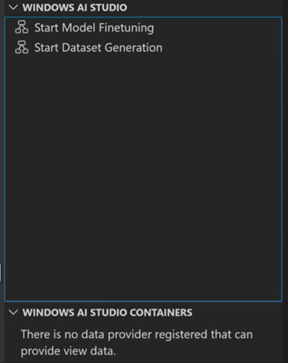
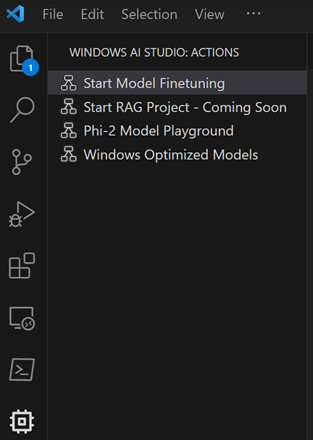
added more details

Changed region(s): [[0.0, 0.0, 1.0, 1.0]]

diff --git a/README.md b/README.md
@@ -10,13 +10,16 @@ In this section you will learn how to quickly start with Windows AI Studio
 
 ### Install Windows AI Studio Preview
 
-Windows AI Studio is shipped as [Visual Studio Code Extension](https://code.visualstudio.com/docs/setup/additional-components#_vs-code-extensions), so you need to install [VS Code](https://code.visualstudio.com/docs/setup/windows) first and dowload the Windows AI Studio from the [VS Marketplace](https://marketplace.visualstudio.com/VSCode).
+Windows AI Studio is shipped as [Visual Studio Code Extension](https://code.visualstudio.com/docs/setup/additional-components#_vs-code-extensions), so you need to install [VS Code](https://code.visualstudio.com/docs/setup/windows) first and download the Windows AI Studio from the [VS Marketplace](https://marketplace.visualstudio.com/VSCode).
 
 ### Available Actions
 
-Upon lanching Windows AI Studio, there are several actions you can do:
+Upon launching Windows AI Studio, there are several actions you can do:
 - Start Model Finetuning
-- Start Dataset Generation
+- Start RAG Project
+- Phi-2 Model Playground
+- Windows Optimized Models
+
 
 ![Actions](/Images/studio_Actions.png)
 
@@ -26,7 +29,7 @@ To initiate the local finetuning session using QLoRA, select a model you want to
 
 > ***Note*** You do not need Azure Account to download the models
 
-Once, a model is selected it is time to configure the project. You will be promp to download the project template. But first, you can set configuration settings via UI. We use [Olive](https://microsoft.github.io/Olive/overview/olive.html) to run QLoRA fine-tuning on a PyTorch model from our catalog. All of the setting are preset with the default values to optimize to runthe finetuning process locally with optimized use of memory.
+Once, a model is selected it is time to configure the project. You will be prompt to download the project template. But first, you can set configuration settings via UI. We use [Olive](https://microsoft.github.io/Olive/overview/olive.html) to run QLoRA fine-tuning on a PyTorch model from our catalog. All of the setting are preset with the default values to optimize to run the finetuning process locally with optimized use of memory.
 
 ![Configure the model](/Images/fineTune.jpg)
 
@@ -44,13 +47,13 @@ Once, a model is selected it is time to configure the project. You will be promp
 | Per device train batch size   | Int       | 1             | The batch size per GPU for training |
 | Per device eval batch size    | Int       | 1             | The batch size per GPU for evaluation |
 | Gradient accumulation steps   | Int       | 4             | Number of updates steps to accumulate the gradients for, before performing a backward/update pass |
-| Enable Gradient checkpointing | Bool      | yes           | Use gradient checkpointing. Recommended to save the memory |
+| Enable Gradient check pointing | Bool      | yes           | Use gradient check pointing. Recommended to save the memory |
 | Learning rate                 | Float     | 0.00002       |The initial learning rate for AdamW |
 | Max steps                     |           |               |             |
 
 
 
-After all the parameters are set, click **Generate Progect**.
+After all the parameters are set, click **Generate Project**.
 That will:
  - Initiate the model download
  - Install all prerequisites and dependencies
@@ -59,9 +62,17 @@ That will:
 When the model is downloaded, you can launch you project from the Windows AI Studio.
 
 
-### Start Dataset Generation
+### Start RAG Project
 
 **Coming soon!**
+
+### Phi-2 Model Playground
+
+**Coming soon!**
+
+### Windows Optimized Models
+
+Collection of models already optimized for Windows. The models are stored in the different locations like Hugging Face, GitHub and others, but you can browse the models and find all of them in one place.
 
 ## Contributing
 
